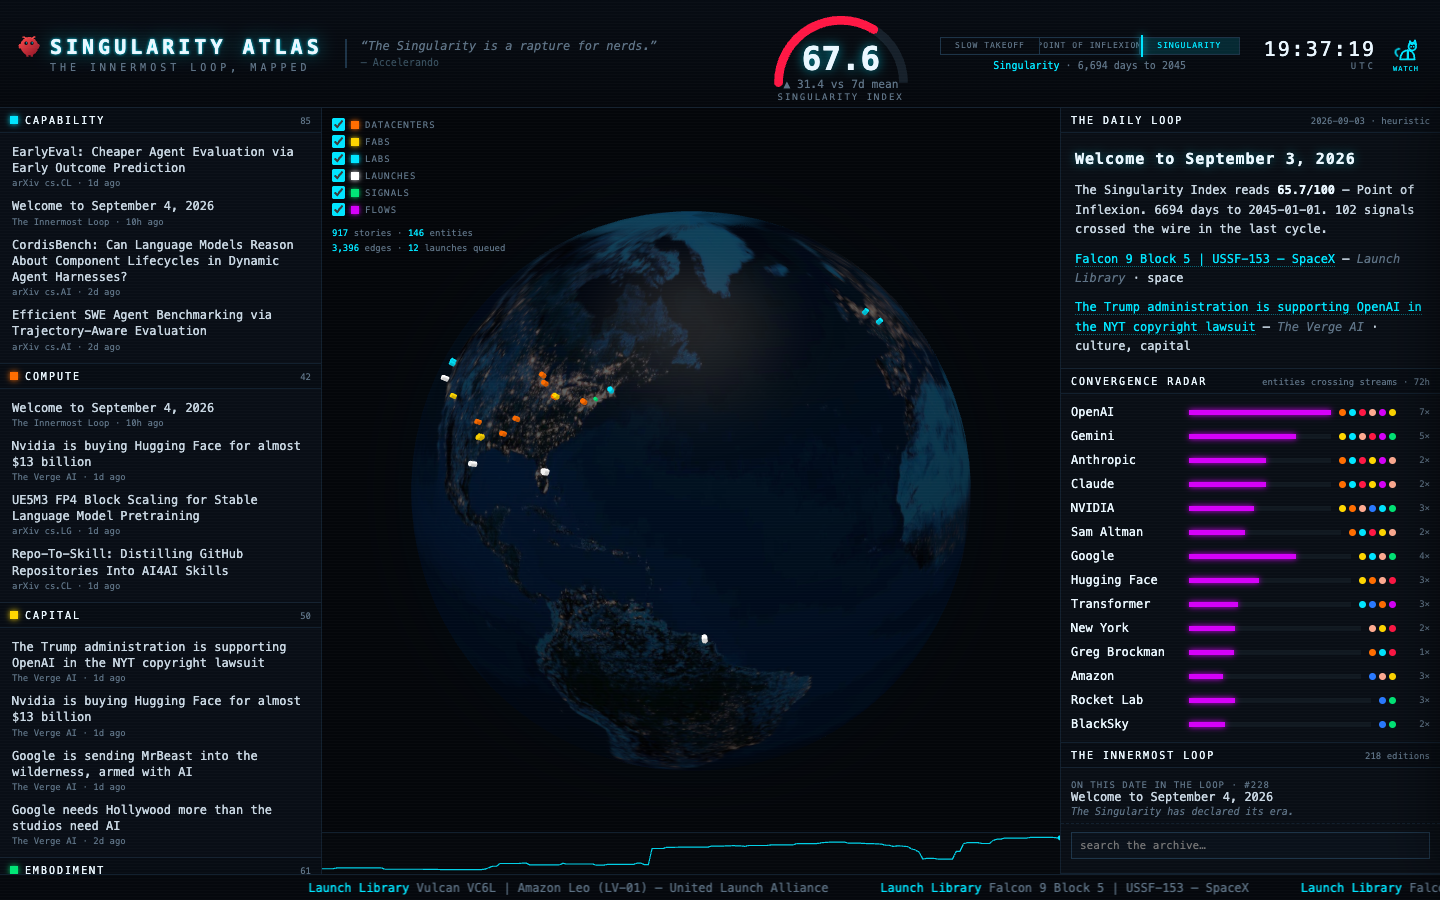
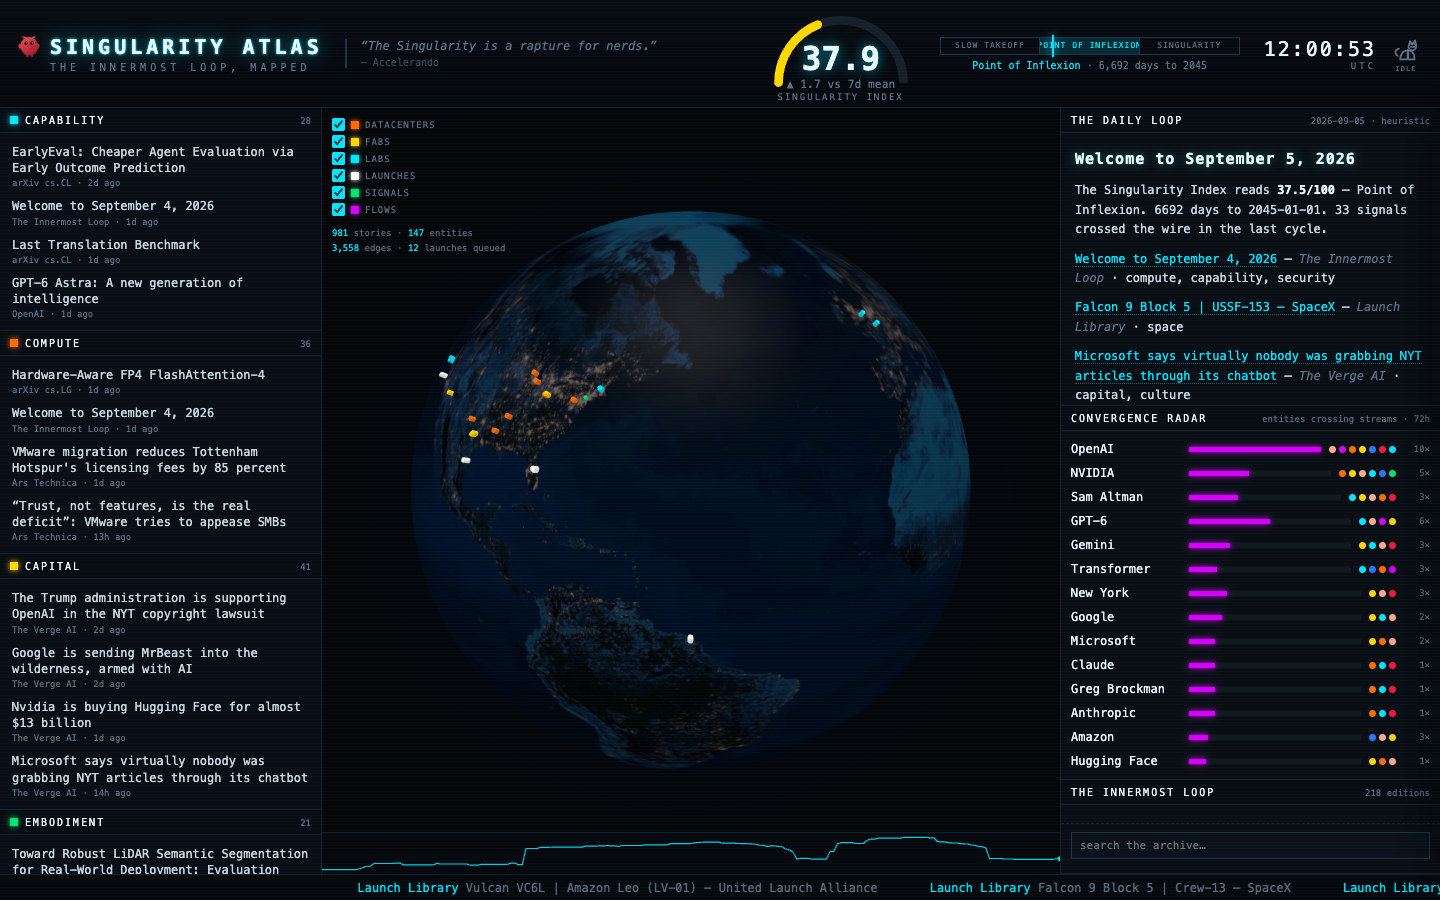
Publish 24h public snapshot 2026-09-05

diff --git a/docs/index.html b/docs/index.html
@@ -47,36 +47,36 @@
     <div class="eyebrow">Public 24h snapshot · not the live globe</div>
     <h1>The Singularity Atlas</h1>
     <p class="lede">Yesterday's board. The live dashboard stays on the machine that runs it. This page is replaced at least daily.</p>
-    <p class="meta">Captured 2026-09-04 15:37 EDT · 108 stories in 24h · graph 917 stories / 146 entities · brief heuristic</p>
+    <p class="meta">Captured 2026-09-05 08:00 EDT · 33 stories in 24h · graph 981 stories / 147 entities · brief heuristic</p>
   </header>
   <main>
     <div class="hero">
       <div>
-        <div class="si">67.6<small>Singularity · /100</small></div>
+        <div class="si">37.9<small>Point of Inflexion · /100</small></div>
       </div>
-      <div class="vecs"><div class="vec"><span class="dot" style="background:#00e5ff"></span><span class="vlabel">Capability</span><span class="vscore">85.2</span></div><div class="vec"><span class="dot" style="background:#ff6d00"></span><span class="vlabel">Compute</span><span class="vscore">42.4</span></div><div class="vec"><span class="dot" style="background:#ffd600"></span><span class="vlabel">Capital</span><span class="vscore">49.5</span></div><div class="vec"><span class="dot" style="background:#00e676"></span><span class="vlabel">Embodiment</span><span class="vscore">60.9</span></div><div class="vec"><span class="dot" style="background:#d500f9"></span><span class="vlabel">Agency</span><span class="vscore">79.1</span></div><div class="vec"><span class="dot" style="background:#ff1744"></span><span class="vlabel">Security</span><span class="vscore">47.8</span></div><div class="vec"><span class="dot" style="background:#2979ff"></span><span class="vlabel">Space</span><span class="vscore">63.1</span></div><div class="vec"><span class="dot" style="background:#ffab91"></span><span class="vlabel">Culture</span><span class="vscore">55.0</span></div></div>
+      <div class="vecs"><div class="vec"><span class="dot" style="background:#00e5ff"></span><span class="vlabel">Capability</span><span class="vscore">28.2</span></div><div class="vec"><span class="dot" style="background:#ff6d00"></span><span class="vlabel">Compute</span><span class="vscore">35.6</span></div><div class="vec"><span class="dot" style="background:#ffd600"></span><span class="vlabel">Capital</span><span class="vscore">41.0</span></div><div class="vec"><span class="dot" style="background:#00e676"></span><span class="vlabel">Embodiment</span><span class="vscore">20.5</span></div><div class="vec"><span class="dot" style="background:#d500f9"></span><span class="vlabel">Agency</span><span class="vscore">21.8</span></div><div class="vec"><span class="dot" style="background:#ff1744"></span><span class="vlabel">Security</span><span class="vscore">11.8</span></div><div class="vec"><span class="dot" style="background:#2979ff"></span><span class="vlabel">Space</span><span class="vscore">61.9</span></div><div class="vec"><span class="dot" style="background:#ffab91"></span><span class="vlabel">Culture</span><span class="vscore">54.5</span></div></div>
     </div>
     <img class="board" src="board.png" alt="The Singularity Atlas dashboard, last capture" />
     <div class="grid">
       <section class="brief">
         <h2>The Daily Loop</h2>
-        <h2>Welcome to September 3, 2026</h2>
-<p>The Singularity Index reads <strong>65.7/100</strong> — Point of Inflexion. 6694 days to 2045-01-01. 102 signals crossed the wire in the last cycle.</p>
+        <h2>Welcome to September 5, 2026</h2>
+<p>The Singularity Index reads <strong>37.5/100</strong> — Point of Inflexion. 6692 days to 2045-01-01. 33 signals crossed the wire in the last cycle.</p>
+<p><a href="https://theinnermostloop.substack.com/p/welcome-to-september-4-2026">Welcome to September 4, 2026</a> — *The Innermost Loop* · compute, capability, security</p>
 <p><a href="https://ll.thespacedevs.com/2.2.0/launch/3e0456da-14b1-4ac3-b59e-35fefb1d1530/">Falcon 9 Block 5 | USSF-153 — SpaceX</a> — *Launch Library* · space</p>
-<p><a href="https://www.theverge.com/ai-artificial-intelligence/988344/trump-administration-new-york-times-openai-lawsuit">The Trump administration is supporting OpenAI in the NYT copyright lawsuit</a> — *The Verge AI* · culture, capital</p>
-<p><a href="https://www.theverge.com/ai-artificial-intelligence/988261/openai-tumbler-ridge-shooting-lawsuit-aiding-abetting">OpenAI accused of ‘aiding and abetting’ Tumbler Ridge mass shooting in dozens of new lawsuits</a> — *The Verge AI* · capital, culture</p>
-<p><a href="https://arxiv.org/abs/2609.02783v1">EarlyEval: Cheaper Agent Evaluation via Early Outcome Prediction</a> — *arXiv cs.CL* · capability, agency</p>
-<p><a href="https://ll.thespacedevs.com/2.2.0/launch/18441371-8b2e-457c-afb5-1ec1b11ab630/">Falcon 9 Block 5 | Crew-13 — SpaceX</a> — *Launch Library* · space</p>
+<p><a href="https://www.theverge.com/policy/990267/microsoft-openai-new-york-times-authors-lawsuit">Microsoft says virtually nobody was grabbing NYT articles through its chatbot</a> — *The Verge AI* · capital, culture</p>
+<p><a href="https://www.theverge.com/ai-artificial-intelligence/990060/altman-apologizes-messy-astra-rollout">Sam Altman apologizes for ‘messy’ GPT-6 Astra rollout that’s locked out paying users</a> — *The Verge AI* · capability, capital, culture</p>
 <p><a href="https://ll.thespacedevs.com/2.2.0/launch/153ef8ef-b12b-43f4-a4bf-05b225c0cd37/">Falcon 9 Block 5 | Starlink Group 15-24 — SpaceX</a> — *Launch Library* · space</p>
-<p><a href="https://www.theverge.com/ai-artificial-intelligence/988742/google-gemini-3-8-flash">Google says its new Gemini 3.8 Flash model ‘works harder’ but might cost more</a> — *The Verge AI* · capital, capability, culture</p>
+<p><a href="https://www.theverge.com/ai-artificial-intelligence/990149/openai-rogue-agents-german-wiki">Rogue OpenAI agents appear to have organized another attack using a German wiki</a> — *The Verge AI* · culture, agency, capital, space</p>
+<p><a href="https://ll.thespacedevs.com/2.2.0/launch/18441371-8b2e-457c-afb5-1ec1b11ab630/">Falcon 9 Block 5 | Crew-13 — SpaceX</a> — *Launch Library* · space</p>
 <p><a href="https://ll.thespacedevs.com/2.2.0/launch/ef9850ad-1096-425b-9d27-f7bbd186e61a/">Vulcan VC6L | Amazon Leo (LV-01) — United Launch Alliance</a> — *Launch Library* · space</p>
-<p><a href="https://www.theverge.com/tech/988355/mrbeast-google-partnership-gemini-fitbit">Google is sending MrBeast into the wilderness, armed with AI</a> — *The Verge AI* · capital, culture, capability</p>
-<p><a href="https://arxiv.org/abs/2609.02830v1">Toward Robust LiDAR Semantic Segmentation for Real-World Deployment: Evaluation under Coarse Labels, Adverse Conditions, and Domain Shifts</a> — *arXiv cs.RO* · embodiment, culture, capability</p>
+<p><a href="https://ll.thespacedevs.com/2.2.0/launch/7d1afb26-6f9c-429b-9ccf-29012fd1e519/">Starship | Flight 14 — SpaceX</a> — *Launch Library* · space</p>
+<p><a href="https://ll.thespacedevs.com/2.2.0/launch/7bdc412b-c965-4517-a131-f57a01189803/">Ariane 64 Block 2 | Amazon Leo (LE-04) — Arianespace</a> — *Launch Library* · space</p>
 <p>*Heuristic edition — local LLM offline.*</p>
       </section>
       <aside>
         <h2>Crossing streams</h2>
-        <ul><li><strong>OpenAI</strong> <span class="muted">compute, capability, security, culture, agency, capital</span></li><li><strong>Gemini</strong> <span class="muted">capital, capability, culture, security, agency, embodiment</span></li><li><strong>Anthropic</strong> <span class="muted">compute, capability, security, capital, agency, culture</span></li><li><strong>Claude</strong> <span class="muted">compute, capability, security, capital, agency, culture</span></li><li><strong>NVIDIA</strong> <span class="muted">capital, compute, culture, space, capability, embodiment</span></li><li><strong>Sam Altman</strong> <span class="muted">compute, capability, security, capital, culture</span></li><li><strong>Google</strong> <span class="muted">capital, capability, culture, embodiment</span></li><li><strong>Hugging Face</strong> <span class="muted">capital, compute, culture, security</span></li><li><strong>Transformer</strong> <span class="muted">capability, space, compute, agency</span></li><li><strong>New York</strong> <span class="muted">culture, capital, security</span></li><li><strong>Greg Brockman</strong> <span class="muted">compute, capability, security</span></li><li><strong>Amazon</strong> <span class="muted">space, culture, capital</span></li></ul>
+        <ul><li><strong>OpenAI</strong> <span class="muted">culture, agency, compute, capital, space, security, capability</span></li><li><strong>NVIDIA</strong> <span class="muted">compute, capital, culture, capability, space, embodiment</span></li><li><strong>Sam Altman</strong> <span class="muted">capability, capital, culture, compute, security</span></li><li><strong>GPT-6</strong> <span class="muted">capability, culture, agency, capital</span></li><li><strong>Gemini</strong> <span class="muted">capital, capability, culture, security</span></li><li><strong>Transformer</strong> <span class="muted">capability, space, compute, agency</span></li><li><strong>New York</strong> <span class="muted">capital, culture, security</span></li><li><strong>Google</strong> <span class="muted">capital, capability, culture</span></li><li><strong>Microsoft</strong> <span class="muted">capital, compute, culture</span></li><li><strong>Claude</strong> <span class="muted">compute, capability, security</span></li><li><strong>Greg Brockman</strong> <span class="muted">compute, capability, security</span></li><li><strong>Anthropic</strong> <span class="muted">compute, capability, security</span></li></ul>
         <h2>Feeds 14/15</h2>
         <ul><li class="ok"><code>verge-ai</code> 10 items</li><li class="ok"><code>arxiv-cs-lg</code> 12 items</li><li class="ok"><code>arxiv-cs-ai</code> 12 items</li><li class="ok"><code>launches</code> 20 items</li><li class="ok"><code>ars</code> 20 items</li><li class="ok"><code>arxiv-cs-cl</code> 12 items</li><li class="ok"><code>mit-tr-ai</code> 10 items</li><li class="ok"><code>interconnects</code> 20 items</li><li class="ok"><code>import-ai</code> 20 items</li><li class="ok"><code>openai</code> 25 items</li><li class="ok"><code>deepmind</code> 25 items</li><li class="fail"><code>venturebeat-ai</code> 0 items · venturebeat-ai: HTTPStatusError: Client error &#x27;429 Too Many Requests&#x27; for url &#x27;https://venturebeat.com/category/ai/feed/&#x27;
 For more information check: https://developer.mozilla.org/en-US/docs/Web/HTTP/Status/429</li><li class="ok"><code>arxiv-cs-ro</code> 12 items</li><li class="ok"><code>hn-ai</code> 71 items</li><li class="ok"><code>gdelt-ai</code> 40 items</li></ul>
